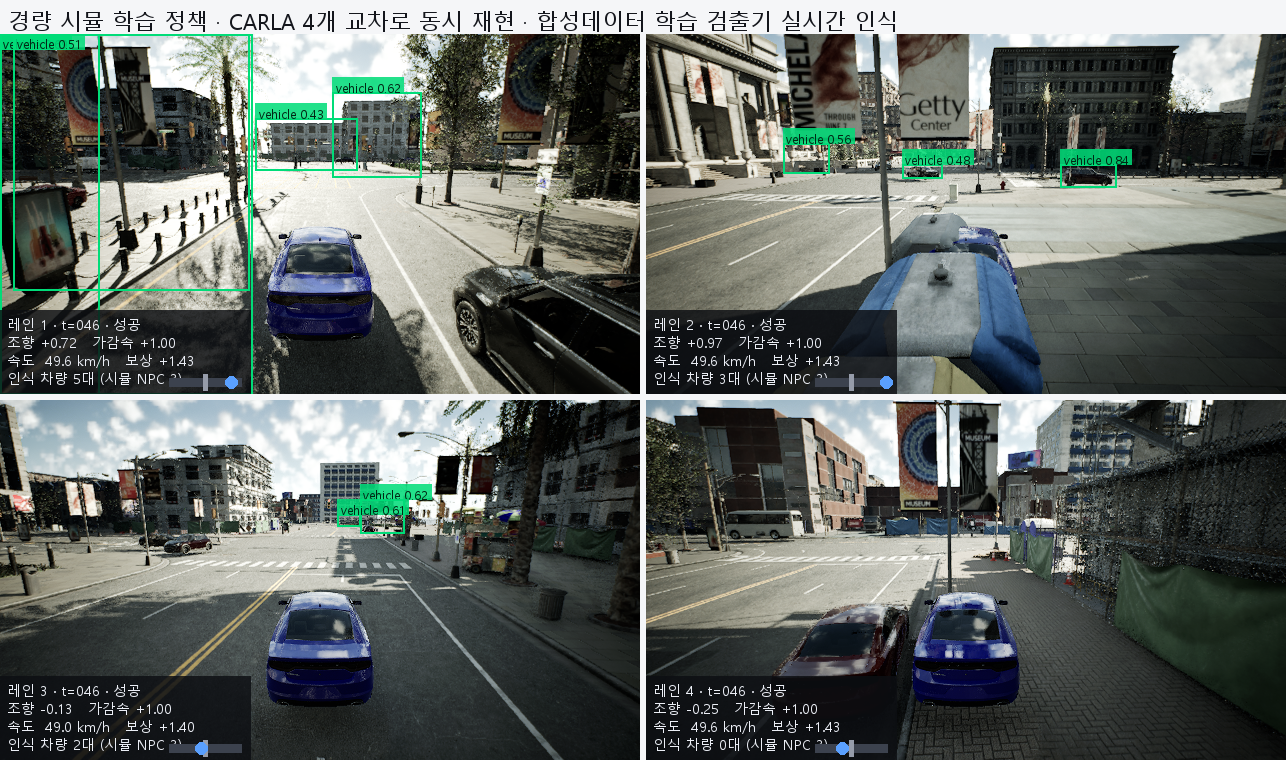
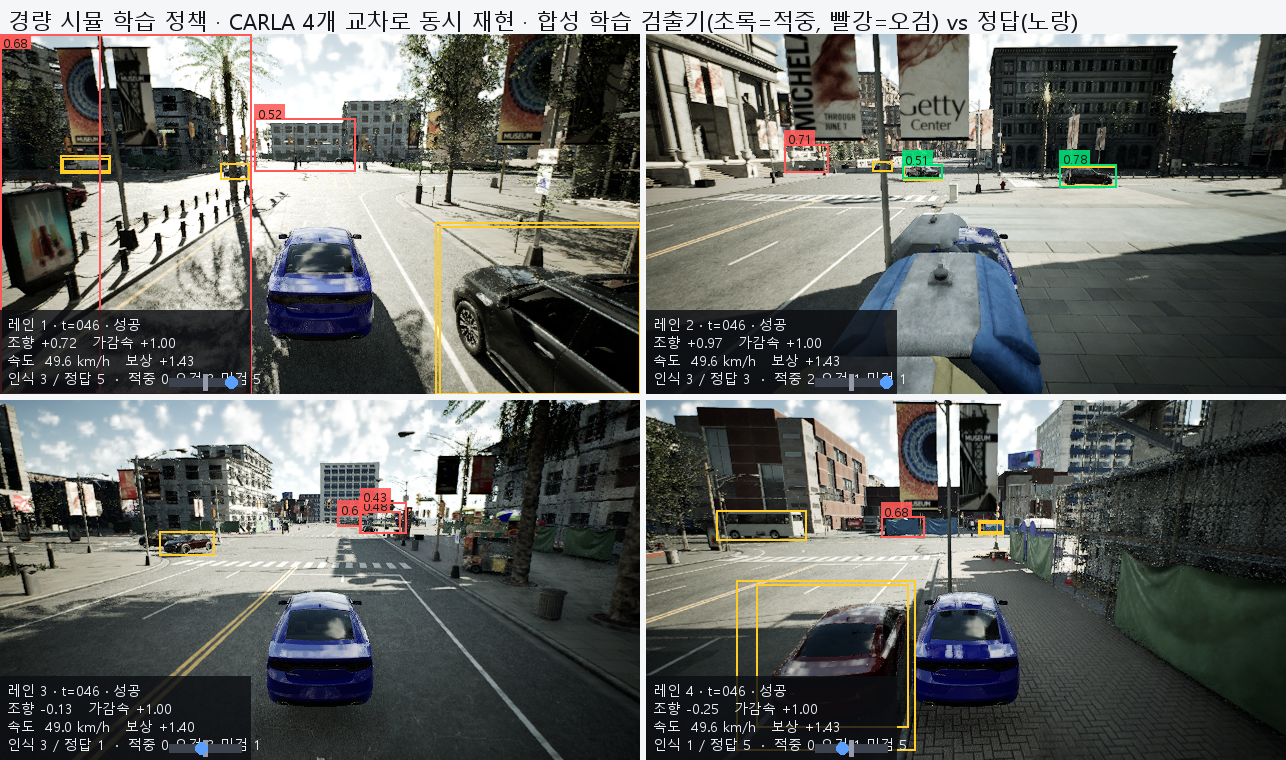
viz: GT 정답박스(레벨 정적차량 포함)+시맨틱 가시성 필터, IoU 매칭으로 적중/오검/미검 표시·집계

diff --git a/viz_carla_multi.py b/viz_carla_multi.py
@@ -34,6 +34,67 @@ def junctions(world, k):
     return cand[:k]
 
 
+def cam_K(w, h, fov):
+    f = w / (2.0 * math.tan(math.radians(fov) / 2.0))
+    return [[f, 0, w / 2.0], [0, f, h / 2.0], [0, 0, 1.0]]
+
+
+def bbox_2d(actor, cam, K, w, h, max_m=70.0):
+    """액터의 3D 바운딩박스를 카메라 이미지 2D 박스로 투영 (없으면 None)."""
+    cam_tf = cam.get_transform()
+    inv = cam_tf.get_inverse_matrix()
+    verts = actor.bounding_box.get_world_vertices(actor.get_transform())
+    pts = []
+    for v in verts:
+        p = [v.x, v.y, v.z, 1.0]
+        c = [sum(inv[r][k] * p[k] for k in range(4)) for r in range(3)]   # UE: x전방 y우 z상
+        if c[0] <= 0.5 or c[0] > max_m:
+            continue
+        u = K[0][0] * (c[1] / c[0]) + K[0][2]
+        vv = K[1][1] * (-c[2] / c[0]) + K[1][2]
+        pts.append((u, vv))
+    if len(pts) < 4:
+        return None
+    xs, ys = [q[0] for q in pts], [q[1] for q in pts]
+    x1, y1, x2, y2 = max(min(xs), 0), max(min(ys), 0), min(max(xs), w), min(max(ys), h)
+    if x2 - x1 < 8 or y2 - y1 < 8:
+        return None
+    return [round(x1, 1), round(y1, 1), round(x2, 1), round(y2, 1)]
+
+
+def level_car_bbs(world):
+    """맵에 배치된 정적 차량(주차 차량 등)의 월드 바운딩박스 — GT 에 포함해야 공정하다."""
+    out = []
+    for lab in ("Car", "Truck", "Bus"):
+        try:
+            out += list(world.get_level_bbs(getattr(carla.CityObjectLabel, lab)))
+        except Exception:
+            pass
+    return out
+
+
+def bbox_2d_from_bb(bb, cam, K, w, h, max_m=70.0):
+    inv = cam.get_transform().get_inverse_matrix()
+    try:
+        verts = bb.get_world_vertices(carla.Transform())
+    except Exception:
+        return None
+    pts = []
+    for v in verts:
+        p = [v.x, v.y, v.z, 1.0]
+        c = [sum(inv[r][k] * p[k] for k in range(4)) for r in range(3)]
+        if c[0] <= 0.5 or c[0] > max_m:
+            continue
+        pts.append((K[0][0] * (c[1] / c[0]) + K[0][2], K[1][1] * (-c[2] / c[0]) + K[1][2]))
+    if len(pts) < 4:
+        return None
+    xs, ys = [q[0] for q in pts], [q[1] for q in pts]
+    x1, y1, x2, y2 = max(min(xs), 0), max(min(ys), 0), min(max(xs), w), min(max(ys), h)
+    if x2 - x1 < 8 or y2 - y1 < 8:
+        return None
+    return [round(x1, 1), round(y1, 1), round(x2, 1), round(y2, 1)]
+
+
 def to_carla(x, y, yaw, center, theta_deg, sim_center, dz=0.3):
     th = math.radians(theta_deg)
     dx, dy = x - sim_center[0], -(y - sim_center[1])
@@ -79,6 +140,10 @@ def main():
         ego_bp.set_attribute("color", "20,90,230")
     npc_pool = [b for b in bl.filter("vehicle.*")
                 if not any(x in b.id for x in ("bike", "motor", "firetruck", "carlacola", "ambulance", "dodge.charger"))]
+    VEH_TAGS = (14, 15, 16)      # CARLA 0.10 시맨틱 태그: 차/트럭/버스 (실측 확인)
+    seg_bp = bl.find("sensor.camera.semantic_segmentation")
+    for at, vv in (("image_size_x", a.width), ("image_size_y", a.height), ("fov", 95)):
+        seg_bp.set_attribute(at, str(vv))
     cam_bp = bl.find("sensor.camera.rgb")
     cam_bp.set_attribute("image_size_x", str(a.width))
     cam_bp.set_attribute("image_size_y", str(a.height))
@@ -109,10 +174,16 @@ def main():
                 v.set_simulate_physics(False); npcs.append(v)
         cam = world.spawn_actor(cam_bp, carla.Transform(
             carla.Location(x=-6.5, z=3.2), carla.Rotation(pitch=-12)), attach_to=ego)
-        q = queue.Queue(); cam.listen(q.put)
-        lanes.append(dict(k=k, ep=ep, center=center, theta=theta, ego=ego, npcs=npcs, cam=cam, q=q))
-        actors += [ego, cam] + npcs
+        seg = world.spawn_actor(seg_bp, carla.Transform(
+            carla.Location(x=-6.5, z=3.2), carla.Rotation(pitch=-12)), attach_to=ego)
+        q, qs = queue.Queue(), queue.Queue()
+        cam.listen(q.put); seg.listen(qs.put)
+        lanes.append(dict(k=k, ep=ep, center=center, theta=theta, ego=ego, npcs=npcs,
+                          cam=cam, q=q, seg=seg, qs=qs))
+        actors += [ego, cam, seg] + npcs
 
+    LEVEL_BBS = level_car_bbs(world)
+    print("레벨 정적 차량 박스:", len(LEVEL_BBS))
     n_frames = max(len(l["ep"]["frames"]) for l in lanes)
     logs = {f"ep{l['k']}": [] for l in lanes}
     try:
@@ -130,11 +201,36 @@ def main():
             world.tick()
             for l in lanes:
                 img = l["q"].get(timeout=20.0)
+                simg = l["qs"].get(timeout=20.0)
                 frs = l["ep"]["frames"]
                 fr = frs[min(i, len(frs) - 1)]
                 if i % a.stride == 0:
                     img.save_to_disk(f"{a.out}/ep{l['k']}_{i:04d}.png")
-                    logs[f"ep{l['k']}"].append(dict(
+                    K = cam_K(a.width, a.height, 95.0)
+                    gt = [b for b in (bbox_2d(v, l["cam"], K, a.width, a.height)
+                                      for v in l["npcs"]) if b]
+                    import numpy as _np
+                    tags = _np.frombuffer(simg.raw_data, dtype=_np.uint8).reshape(
+                        simg.height, simg.width, 4)[:, :, 2]
+                    cam_loc = l["cam"].get_transform().location
+                    for bb in LEVEL_BBS:
+                        if bb.location.distance(cam_loc) > 70:
+                            continue
+                        qb = bbox_2d_from_bb(bb, l["cam"], K, a.width, a.height)
+                        if qb:
+                            gt.append(qb)
+                    # 가시성 필터: 박스 안에 실제 차량 픽셀이 있어야 GT 로 인정 (가림 제거)
+                    vis = []
+                    for b in gt:
+                        x1, y1, x2, y2 = (int(b[0]), int(b[1]), int(b[2]), int(b[3]))
+                        sub = tags[max(y1, 0):max(y2, 1), max(x1, 0):max(x2, 1)]
+                        if sub.size < 200:
+                            continue
+                        frac = float(_np.isin(sub, VEH_TAGS).mean())
+                        if frac >= 0.18:
+                            vis.append(b)
+                    gt = vis
+                    logs[f"ep{l['k']}"].append(dict(gt=gt,
                         i=i, speed=fr["ego"][3], act=fr.get("act", [0, 0]),
                         rew=fr.get("rew", 0.0), n_npc=fr.get("n_npc", len(fr["npc"])),
                         outcome=l["ep"]["outcome"],
@@ -143,8 +239,9 @@ def main():
         print("촬영 완료:", n_frames, "프레임 ×", len(lanes), "레인 →", a.out)
     finally:
         for l in lanes:
-            try: l["cam"].stop()
-            except Exception: pass
+            for key in ("cam", "seg"):
+                try: l[key].stop()
+                except Exception: pass
         for x in actors:
             try: x.destroy()
             except Exception: pass

diff --git a/tools/viz_dashboard.py b/tools/viz_dashboard.py
@@ -25,15 +25,45 @@ def font(sz):
         return ImageFont.load_default()
 
 
-def draw_panel(img, dets, log, k, fs):
-    """한 레인 패널: bbox + 로그 오버레이."""
+def iou(a, b):
+    ix1, iy1 = max(a[0], b[0]), max(a[1], b[1])
+    ix2, iy2 = min(a[2], b[2]), min(a[3], b[3])
+    iw, ih = max(ix2 - ix1, 0), max(iy2 - iy1, 0)
+    inter = iw * ih
+    ua = (a[2] - a[0]) * (a[3] - a[1]) + (b[2] - b[0]) * (b[3] - b[1]) - inter
+    return inter / ua if ua > 0 else 0.0
+
+
+def match(dets, gts, thr=0.5):
+    """탐지-정답 그리디 매칭 → (TP 인덱스집합, FP, FN)."""
+    used, tp = set(), []
+    for i, dd in enumerate(sorted(range(len(dets)), key=lambda j: -dets[j][4])):
+        best, bj = 0.0, -1
+        for j, g in enumerate(gts):
+            if j in used:
+                continue
+            v = iou(dets[dd][:4], g)
+            if v > best:
+                best, bj = v, j
+        if best >= thr:
+            used.add(bj); tp.append(dd)
+    return set(tp), len(dets) - len(tp), len(gts) - len(used)
+
+
+def draw_panel(img, dets, log, k, fs, gts=None):
+    """한 레인 패널: GT(노랑) + 검출(초록/빨강) + 로그 오버레이."""
     d = ImageDraw.Draw(img, "RGBA")
-    for (x1, y1, x2, y2, conf) in dets:
-        d.rectangle([x1, y1, x2, y2], outline=(0, 220, 120), width=2)
-        lab = f"vehicle {conf:.2f}"
+    gts = gts or []
+    tp_idx, n_fp, n_fn = match(dets, gts)
+    for g in gts:                                   # 정답 박스 (노랑 점선 느낌)
+        d.rectangle(g, outline=(255, 205, 40), width=2)
+    for di, (x1, y1, x2, y2, conf) in enumerate(dets):
+        col = (0, 225, 120) if di in tp_idx else (255, 90, 90)
+        d.rectangle([x1, y1, x2, y2], outline=col, width=2)
+        lab = f"{conf:.2f}"
         w = d.textlength(lab, font=fs["s"])
-        d.rectangle([x1, max(y1 - 15, 0), x1 + w + 6, max(y1 - 15, 0) + 15], fill=(0, 220, 120, 220))
-        d.text((x1 + 3, max(y1 - 15, 0) + 1), lab, fill=(0, 40, 20), font=fs["s"])
+        d.rectangle([x1, max(y1 - 14, 0), x1 + w + 6, max(y1 - 14, 0) + 14], fill=col + (225,))
+        d.text((x1 + 3, max(y1 - 14, 0)), lab, fill=(10, 30, 15), font=fs["s"])
     # 로그 패널 (좌하단)
     H = img.height
     d.rectangle([0, H - 84, 250, H], fill=(12, 14, 18, 210))
@@ -42,7 +72,7 @@ def draw_panel(img, dets, log, k, fs):
         f"레인 {k+1} · t={log['i']:03d} · {log['outcome']}",
         f"조향 {st:+.2f}   가감속 {th:+.2f}",
         f"속도 {log['speed']*3.6:5.1f} km/h   보상 {log['rew']:+.2f}",
-        f"인식 차량 {len(dets)}대 (시뮬 NPC {log['n_npc']})",
+        f"인식 {len(dets)} / 정답 {len(gts)}  ·  적중 {len(tp_idx)} 오검 {n_fp} 미검 {n_fn}",
     ]
     for j, t in enumerate(lines):
         d.text((7, H - 80 + j * 18), t, fill=(235, 238, 245), font=fs["m"])
@@ -71,6 +101,7 @@ def main():
     model = YOLO(DET_W)
 
     frames_out = []
+    stat = {"tp": 0, "fp": 0, "fn": 0}
     idxs = sorted({l["i"] for l in logs[lanes[0]]})[::a.stride]
     for i in idxs:
         panels = []
@@ -89,7 +120,10 @@ def main():
                     continue
                 dets.append((x1, y1, x2, y2, float(b.conf[0])))
             lg = next((x for x in logs[lane] if x["i"] == i), logs[lane][-1])
-            panels.append(draw_panel(im, dets, lg, k, fs))
+            gts = lg.get("gt", [])
+            panels.append(draw_panel(im, dets, lg, k, fs, gts))
+            tps, fps, fns = match(dets, gts)
+            stat["tp"] += len(tps); stat["fp"] += fps; stat["fn"] += fns
         if len(panels) < 2:
             continue
         w, h = panels[0].size
@@ -97,7 +131,7 @@ def main():
         for j, p in enumerate(panels[:4]):
             sheet.paste(p, ((j % 2) * (w + 6), 34 + (j // 2) * (h + 6)))
         d = ImageDraw.Draw(sheet)
-        d.text((8, 6), "경량 시뮬 학습 정책 · CARLA 4개 교차로 동시 재현 · 합성데이터 학습 검출기 실시간 인식",
+        d.text((8, 6), "경량 시뮬 학습 정책 · CARLA 4개 교차로 동시 재현 · 합성 학습 검출기(초록=적중, 빨강=오검) vs 정답(노랑)",
                fill=(20, 22, 28), font=fs["t"])
         frames_out.append(sheet)
         print("프레임", i, "패널", len(panels), flush=True)
@@ -108,6 +142,10 @@ def main():
     frames_out[len(frames_out) // 2].save(a.out + ".png")
     small = [f.resize((f.width // 2, f.height // 2)) for f in frames_out]
     small[0].save(a.out + ".gif", save_all=True, append_images=small[1:], duration=130, loop=0)
+    tp, fp, fn = stat["tp"], stat["fp"], stat["fn"]
+    prec = tp / max(tp + fp, 1); rec = tp / max(tp + fn, 1)
+    print(f"검출 성능(IoU 0.5, 전 프레임 누적): 적중 {tp} 오검 {fp} 미검 {fn} | "
+          f"정밀도 {prec:.1%} 재현율 {rec:.1%}")
     print("저장:", a.out + ".png,", a.out + f".gif ({len(small)}프레임)")
 
 
